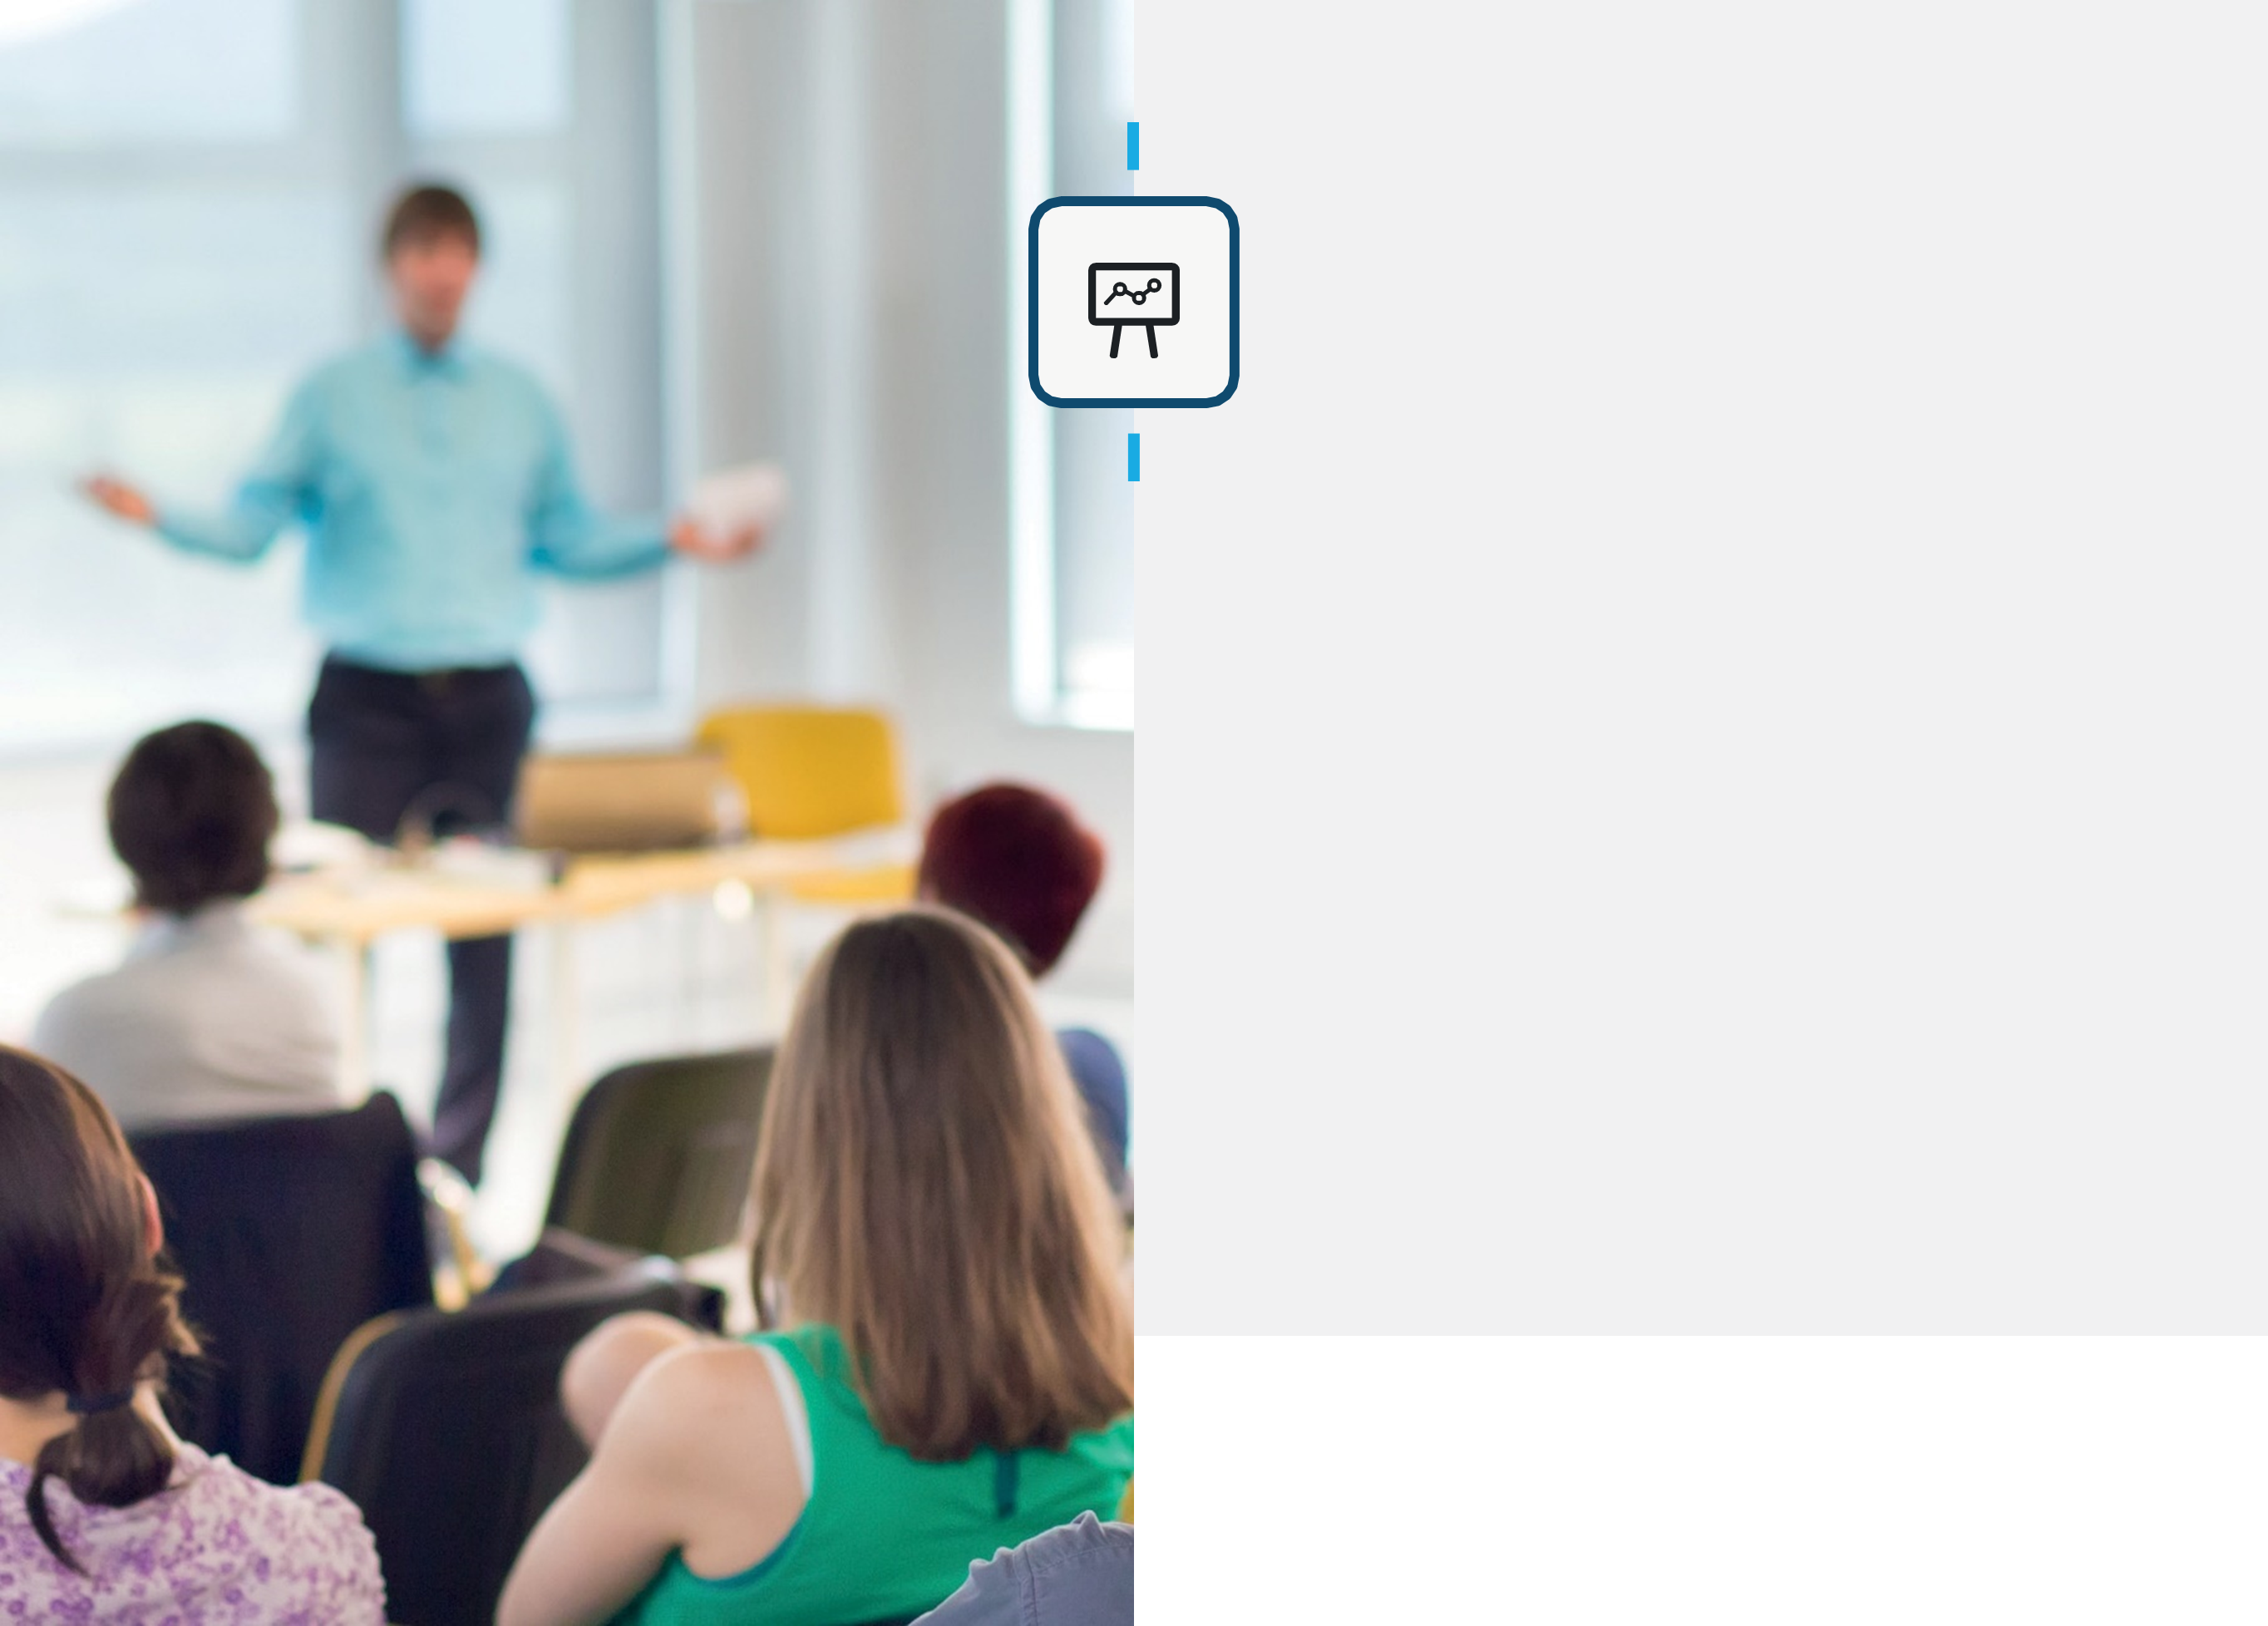
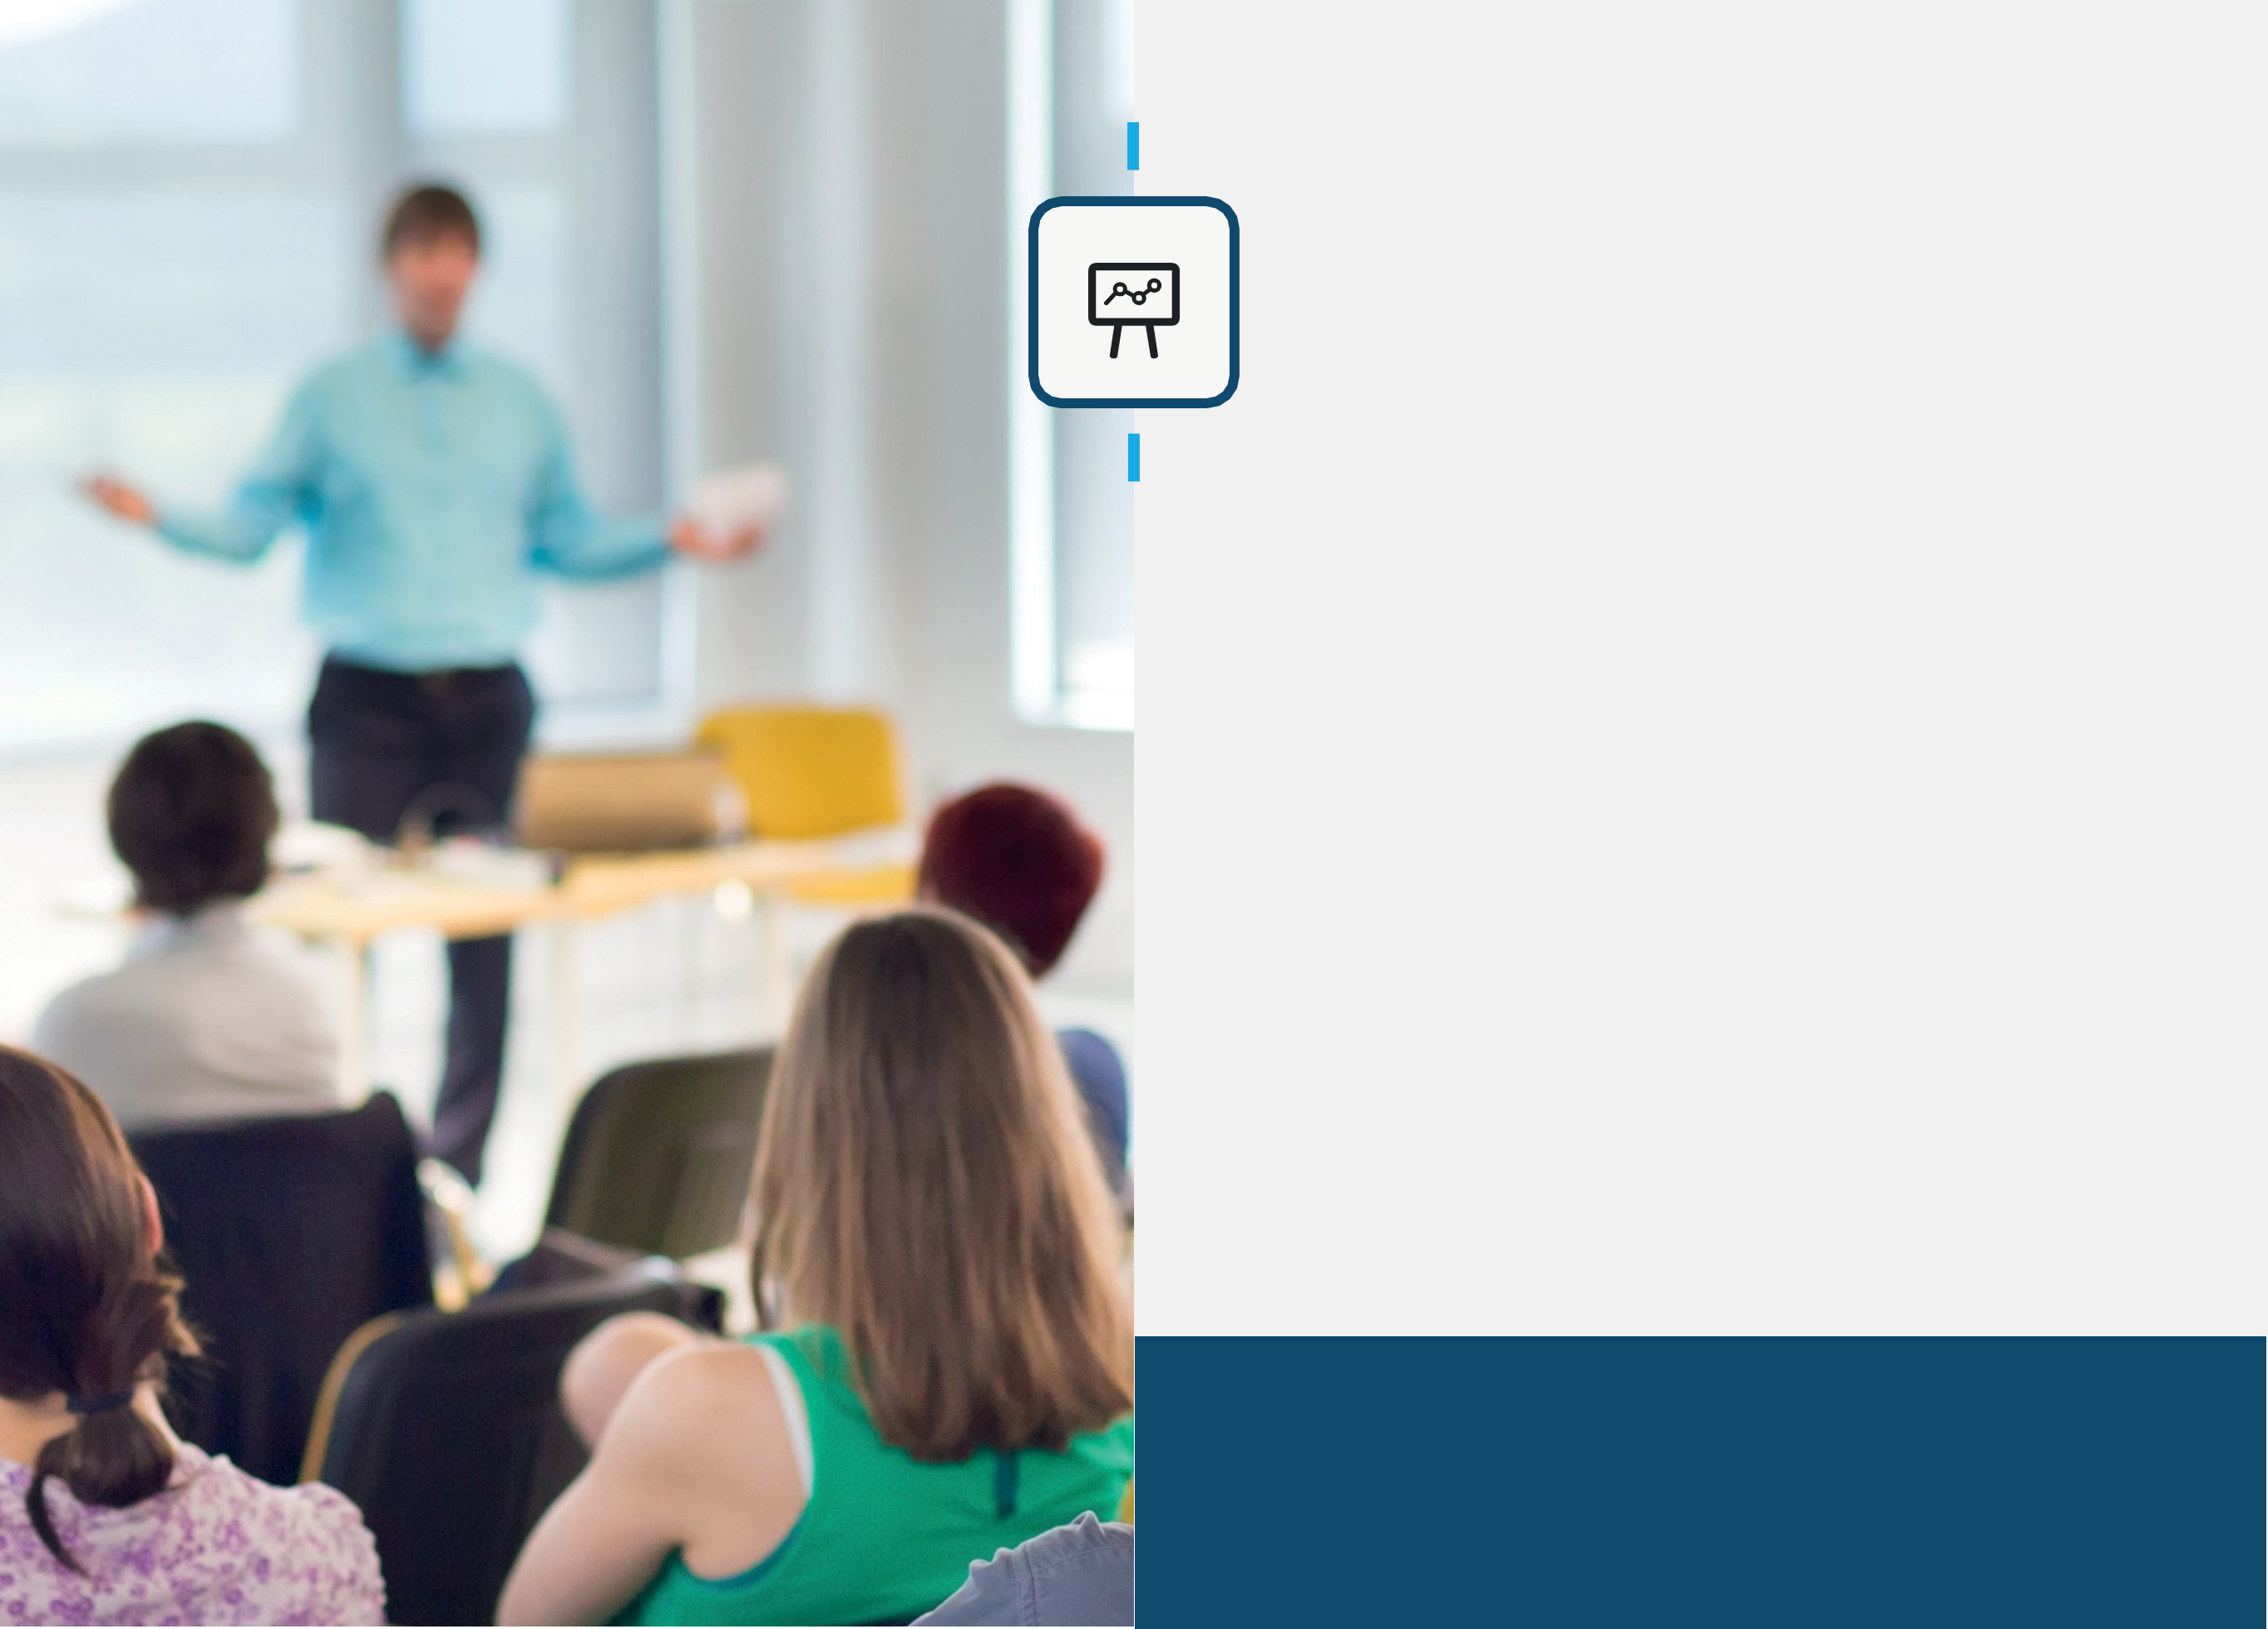
feat: atualizacao das propostas de formação

diff --git a/src/components/pdfFormacaoGenerator.jsx b/src/components/pdfFormacaoGenerator.jsx
@@ -51,6 +51,44 @@ const safeValue = (value) => {
   return text || '—';
 };
 
+const formatAddressForPdf = (value) => {
+  const text = String(value ?? '').trim();
+  if (!text) return '';
+
+  const parts = text
+    .split(/\s+-\s+/)
+    .map((part) => part.trim())
+    .filter(Boolean)
+    .filter((part, index, array) => {
+      if (index === 0) return true;
+      return part.toLowerCase() !== array[index - 1].toLowerCase();
+    });
+
+  const postalCodeIndex = parts.findIndex((part) => /^\d{4}-\d{3}$/.test(part));
+  if (postalCodeIndex !== -1) {
+    const beforePostalCode = parts.slice(0, postalCodeIndex).join(' - ');
+    const afterPostalCode = parts.slice(postalCodeIndex).join(' - ');
+    return beforePostalCode ? `${beforePostalCode}\n${afterPostalCode}` : afterPostalCode;
+  }
+
+  return parts.join(' - ');
+};
+
+const formatPhoneForPdf = (value) => {
+  const text = String(value ?? '').trim();
+  if (!text) return '';
+
+  const compact = text.replace(/\s+/g, ' ').trim();
+  const match = compact.match(/^(\+\d{2,3})\s*(.*)$/);
+  if (!match) return compact;
+
+  const prefix = match[1];
+  const number = match[2].trim();
+  if (!number) return prefix;
+
+  return `${prefix} ${number}`;
+};
+
 const cleanTextToBullets = (text) => {
   if (!text) return '';
 
@@ -89,6 +127,14 @@ const getLogoPath = (empresaConsultora) => {
   const nome = (empresaConsultora.nome || '').toLowerCase();
   if (nome.includes('2siglas') || nome.includes('2 siglas') || nome.includes('duas siglas')) return '/2siglas.png';
   return '/neomarca.png';
+};
+
+const interpolate = (text, vars = {}) => {
+  if (!text) return '';
+  return String(text).replace(/\{([a-zA-Z0-9_]+)\}/g, (match, key) => {
+    const v = vars[key];
+    return v === undefined || v === null ? '' : String(v);
+  });
 };
 
 // ============================================================================
@@ -194,41 +240,113 @@ export const generateFormacaoPDF = async (params) => {
   };
 
   const drawJustifiedLine = (lineText, textX, textWidth, lineHeight, color, isLastLine = false) => {
-    const words = lineText.trim().split(/\s+/).filter(Boolean);
-    const textOptions = {
-      align: 'left',
-    };
+    // Suporte a *negrito* inline: vamos dividir a linha em palavras mantendo a informação se
+    // cada palavra está dentro de *...* (bold). Para efeitos de quebra, o caller já
+    // removeu os asteriscos antes de chamar splitTextToSize; aqui fazemos a renderização
+    // respeitando os tokens estilizados.
+    const textOptions = { align: 'left' };
 
-    if (isLastLine || words.length <= 1) {
+    // Se for a última linha e não houver marcação de negrito, desenha simples
+    if (isLastLine && !lineText.includes('*')) {
       doc.text(lineText, textX, currentY, textOptions);
       currentY += lineHeight;
       return;
     }
 
-    const totalWordsWidth = words.reduce((sum, word) => sum + doc.getTextWidth(word), 0);
-    const availableSpace = textWidth - totalWordsWidth;
-    const gaps = words.length - 1;
-    const extraSpace = gaps > 0 ? availableSpace / gaps : 0;
+    // Parser simples: detecta *...* e marca as palavras entre como bold.
+    const tokens = [];
+    // Construir array de segmentos com flag bold
+    let idx = 0;
+    let inBold = false;
+    let buffer = '';
+    const pushBuffer = (bold) => {
+      if (!buffer) return;
+      buffer
+        .trim()
+        .split(/\s+/)
+        .filter(Boolean)
+        .forEach((w) => tokens.push({ text: w, bold }));
+      buffer = '';
+    };
 
-    if (!Number.isFinite(extraSpace) || extraSpace <= 0) {
+    // Percorre a string original (mantendo '*' como delimitadores)
+    while (idx < lineText.length) {
+      const ch = lineText[idx];
+      if (ch === '*') {
+        pushBuffer(inBold);
+        inBold = !inBold;
+        idx++;
+        continue;
+      }
+      buffer += ch;
+      idx++;
+    }
+    pushBuffer(inBold);
+
+    if (tokens.length === 0) {
       doc.text(lineText, textX, currentY, textOptions);
+      currentY += lineHeight;
+      return;
+    }
+
+    // Calcular largura total das palavras (cada uma com o seu estilo ao medir)
+    const spaceWidth = doc.getTextWidth(' ');
+    const totalWordsWidth = tokens.reduce((sum, tk) => {
+      doc.setFont('helvetica', tk.bold ? 'bold' : 'normal');
+      return sum + doc.getTextWidth(tk.text);
+    }, 0);
+
+    const gaps = tokens.length - 1;
+    const baselineWidth = totalWordsWidth + gaps * spaceWidth;
+    const extraPerGap = gaps > 0 ? (textWidth - baselineWidth) / gaps : 0;
+
+    // Se a linha contém texto em negrito, evitar justificação para não alargar espaços
+    const hasBold = tokens.some((tk) => tk.bold === true);
+    if (hasBold) {
+      let cursorX = textX;
+      tokens.forEach((tk) => {
+        doc.setFont('helvetica', tk.bold ? 'bold' : 'normal');
+        doc.text(tk.text, cursorX, currentY, textOptions);
+        cursorX += doc.getTextWidth(tk.text) + spaceWidth;
+      });
+      currentY += lineHeight;
+      return;
+    }
+
+    if (!Number.isFinite(extraPerGap) || extraPerGap <= 0) {
+      // Sem espaço extra para justificação — desenha com espaçamento normal
+      let cursorX = textX;
+      tokens.forEach((tk) => {
+        doc.setFont('helvetica', tk.bold ? 'bold' : 'normal');
+        doc.text(tk.text, cursorX, currentY, textOptions);
+        cursorX += doc.getTextWidth(tk.text) + spaceWidth;
+      });
       currentY += lineHeight;
       return;
     }
 
     doc.setTextColor(...color);
     let cursorX = textX;
-    words.forEach((word, index) => {
-      doc.text(word, cursorX, currentY, textOptions);
-      cursorX += doc.getTextWidth(word);
-      if (index < words.length - 1) cursorX += extraSpace;
+    tokens.forEach((tk, index) => {
+      doc.setFont('helvetica', tk.bold ? 'bold' : 'normal');
+      doc.text(tk.text, cursorX, currentY, textOptions);
+      cursorX += doc.getTextWidth(tk.text) + spaceWidth + extraPerGap;
     });
     currentY += lineHeight;
   };
 
   const drawParagraph = (text, options = {}) => {
     if (!text) return;
-    const body = cleanTextToBullets(text);
+    const vars = {
+      cliente: cliente?.nome || '',
+      empresa: empresaConsultora?.nome || '',
+      proposta_numero: proposta?.numero || propostaNumero || '',
+      data_proposta: formatDate(proposta?.data || ''),
+      total: formatCurrency(totais?.totalComIva || 0),
+    };
+
+    const interpolated = interpolate(text, vars);
+    const body = cleanTextToBullets(interpolated);
 
     const paragraphs = body
         .split(/\n\s*\n/g)
@@ -370,7 +488,7 @@ export const generateFormacaoPDF = async (params) => {
 
     doc.setFont('helvetica', 'bold');
     doc.setFontSize(14);
-    doc.setTextColor(60, 60, 60);
+    doc.setTextColor(255, 255, 255);
     doc.text(website, contentX, 212);
 
   // ============================================================================
@@ -396,19 +514,36 @@ export const generateFormacaoPDF = async (params) => {
   currentY += 5;
   
   doc.setFont('helvetica', 'normal');
-  if(clienteMorada) { doc.text(clienteMorada, marginX, currentY); currentY += 5; }
-  currentY += 10;
+  if (clienteMorada) {
+    currentY += 4;
+    drawParagraph(formatAddressForPdf(clienteMorada));
+  }
+  currentY += 5;
 
   if (condicoes?.compromisso) drawParagraph(condicoes.compromisso);
   if (condicoes?.esperamos_que_corresponda) drawParagraph(condicoes.esperamos_que_corresponda);
   if (condicoes?.para_aprovacao) drawParagraph(condicoes.para_aprovacao);
 
   currentY += 10;
+  const rightX = pageWidth - marginX;
   doc.setFont('helvetica', 'bold');
-  doc.text(`${empresaConsultora?.nome_signatario?.toUpperCase() || 'DIREÇÃO COMERCIAL'}`, marginX, currentY);
+  doc.text(`${empresaConsultora?.nome_signatario?.toUpperCase() || 'DIREÇÃO COMERCIAL'}`, rightX, currentY, { align: 'right' });
   currentY += 5;
   doc.setFont('helvetica', 'normal');
-  doc.text(`${empresaConsultora?.telefone || ''} | ${empresaConsultora?.email || '[email redacted]'}`, marginX, currentY);
+  const telefoneFormatado = formatPhoneForPdf(empresaConsultora?.telefone || '');
+  const emailTexto = empresaConsultora?.email || '[email redacted]';
+
+  if (telefoneFormatado) {
+    doc.text(telefoneFormatado, rightX, currentY, { align: 'right' });
+    currentY += telefoneFormatado.includes('\n') ? 10 : 5;
+  }
+
+  doc.text(emailTexto, rightX, currentY, { align: 'right' });
+  currentY += 5;
+
+  doc.setFont('helvetica', 'italic');
+  doc.setFontSize(8);
+  doc.text('(documento não assinado - enviado por email)', rightX, currentY, { align: 'right' });
 
   // ============================================================================
   // PÁGINAS SEGUINTES: INFORMAÇÕES GERAIS E CONDIÇÕES
@@ -549,7 +684,7 @@ export const generateFormacaoPDF = async (params) => {
       // 15º METODOLOGIA
       if (curso.metodologia) {
         addNewPage();
-        drawTitle('METODOLOGIA');
+        drawSectionTitle('METODOLOGIA');
         drawParagraph(curso.metodologia);
       }
     });
@@ -596,6 +731,19 @@ export const generateFormacaoPDF = async (params) => {
       theme: 'grid',
     });
     currentY = doc.lastAutoTable.finalY + 10;
+
+    if (condicoes?.nota_honorarios) {
+      doc.setFont('helvetica', 'italic');
+      doc.setFontSize(9);
+      doc.setTextColor(...COLORS.secondary);
+      const noteLines = doc.splitTextToSize(cleanTextToBullets(condicoes.nota_honorarios), contentWidth);
+      noteLines.forEach((line) => {
+        ensureSpace(6);
+        doc.text(line, marginX, currentY);
+        currentY += 5;
+      });
+      currentY += 3;
+    }
   }
 
   // ============================================================================

diff --git a/src/pages/Clientes.jsx b/src/pages/Clientes.jsx
@@ -174,6 +174,7 @@ export default function Clientes() {
     texto_processo_trabalho: "",
     texto_plano_pagamento: "",
     texto_exclusoes: "",
+    texto_nota_honorarios: "",
     texto_apresentacao_empresa_formacao: "",
     texto_areas_formacao: "",
     texto_proposta_formacao: "",
@@ -3027,6 +3028,16 @@ export default function Clientes() {
                           disabled={isViewOnly}
                         />
 
+                        <label style={labelStyle}>Nota dos Honorários</label>
+                        <textarea
+                          value={entidadeConfig.texto_nota_honorarios || ""}
+                          onChange={e => setEntidadeConfig({...entidadeConfig, texto_nota_honorarios: e.target.value})}
+                          rows={3}
+                          style={{...inputStyle, minHeight: 80, resize: 'vertical'}}
+                          placeholder='Os valores apresentados estão isentos de IVA. Proposta para um máx. 15 pax'
+                          disabled={isViewOnly}
+                        />
+
                         <div style={sectionTitleStyle}>Aprovação</div>
                         <label style={labelStyle}>Texto para Aprovação</label>
                         <textarea
@@ -3188,6 +3199,18 @@ export default function Clientes() {
                     />
                     <div style={{ fontSize: '1rem', color: '#64748b', marginBottom: 10 }}>
                       Este texto será usado automaticamente nas propostas e pode ser personalizado por Entidade.
+                    </div>
+
+                    <div style={{ marginTop: 12 }}>
+                      <label style={labelStyle}>Nota dos Honorários (visível)</label>
+                      <textarea
+                        value={entidadeConfig.texto_nota_honorarios || ""}
+                        onChange={e => setEntidadeConfig({...entidadeConfig, texto_nota_honorarios: e.target.value})}
+                        rows={3}
+                        style={{...inputStyle, minHeight: 80, resize: 'vertical'}}
+                        placeholder='Os valores apresentados estão isentos de IVA. Proposta para um máx. 15 pax'
+                        disabled={isViewOnly}
+                      />
                     </div>
 
                     {!isViewOnly && (

diff --git a/src/pages/PropostasFormacao.jsx b/src/pages/PropostasFormacao.jsx
@@ -69,6 +69,7 @@ const INITIAL_CONDICOES = {
   objetivos: "",
   metodologia: "",
   honorarios: "",
+  nota_honorarios: "",
   plano_pagamento: "",
   obrigacoes_consultora: "",
   obrigacoes_cliente: "",
@@ -476,8 +477,9 @@ export default function PropostasFormacao({ propostaId, initialEmpresaConsultora
         obrigacoes_cliente: config.texto_obrigacoes_cliente || previous.obrigacoes_cliente || "",
         condicoes_realizacao: config.texto_condicoes_realizacao || previous.condicoes_realizacao || "",
         coordenacao_formacao: config.texto_coordenacao_formacao || previous.coordenacao_formacao || "",
+        nota_honorarios: config.texto_nota_honorarios || previous.nota_honorarios || "",
         plano_pagamento: previous.plano_pagamento || config.texto_plano_pagamento || "",
-        notas: previous.notas || config.texto_exclusoes || "",
+        notas: config.texto_exclusoes || previous.notas || "",
         imagem_certificacoes: config.imagem_certificacoes || previous.imagem_certificacoes || "",
         termos_gerais: baseConsultora?.termos_gerais || previous.termos_gerais || "",
       }));
@@ -1382,6 +1384,10 @@ export default function PropostasFormacao({ propostaId, initialEmpresaConsultora
                     <textarea rows={4} value={condicoes.honorarios} onChange={setField(setCondicoes, "honorarios")} />
                   </div>
                   <div className="field">
+                    <label>Nota dos honorários</label>
+                    <textarea rows={3} value={condicoes.nota_honorarios} onChange={setField(setCondicoes, "nota_honorarios")} placeholder='Os valores apresentados estão isentos de IVA. Proposta para um máx. 15 pax' />
+                  </div>
+                  <div className="field">
                     <label>Plano de pagamento</label>
                     <textarea rows={4} value={condicoes.plano_pagamento} onChange={setField(setCondicoes, "plano_pagamento")} />
                   </div>
@@ -1484,6 +1490,12 @@ export default function PropostasFormacao({ propostaId, initialEmpresaConsultora
                   </div>
                 </div>
               </div>
+              {condicoes.nota_honorarios && (
+                <div className="card-inner">
+                  <div className="section-heading">Nota dos Honorários</div>
+                  <div style={{ padding: '8px 0', color: '#374151', whiteSpace: 'pre-wrap' }}>{condicoes.nota_honorarios}</div>
+                </div>
+              )}
             </section>
           )}
 